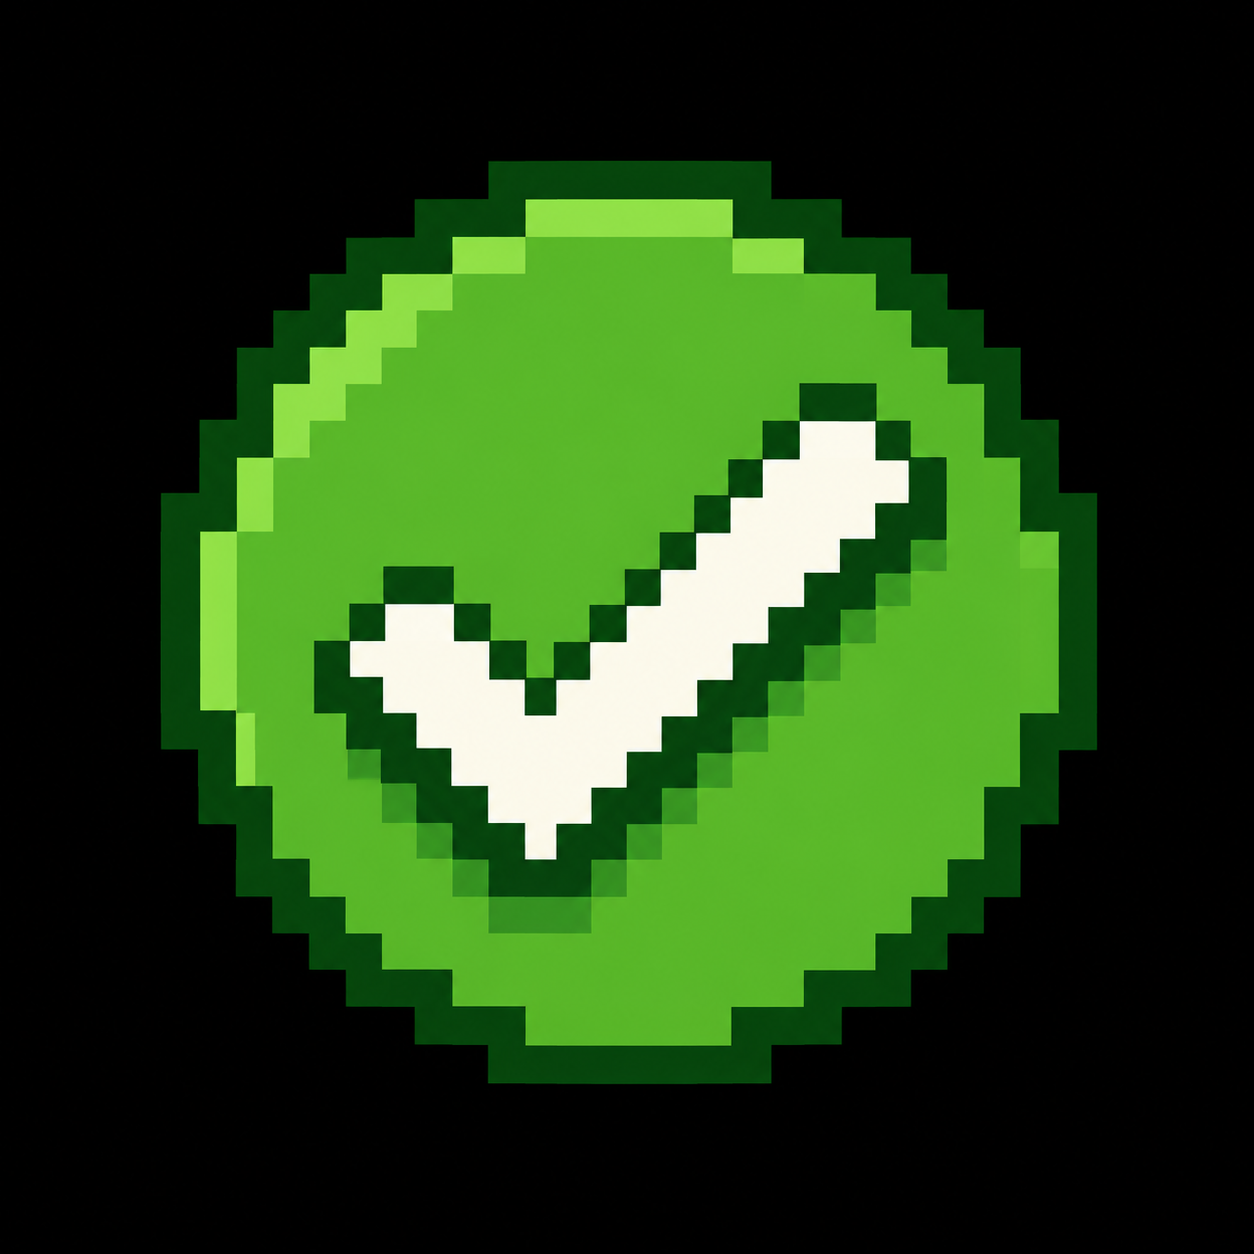
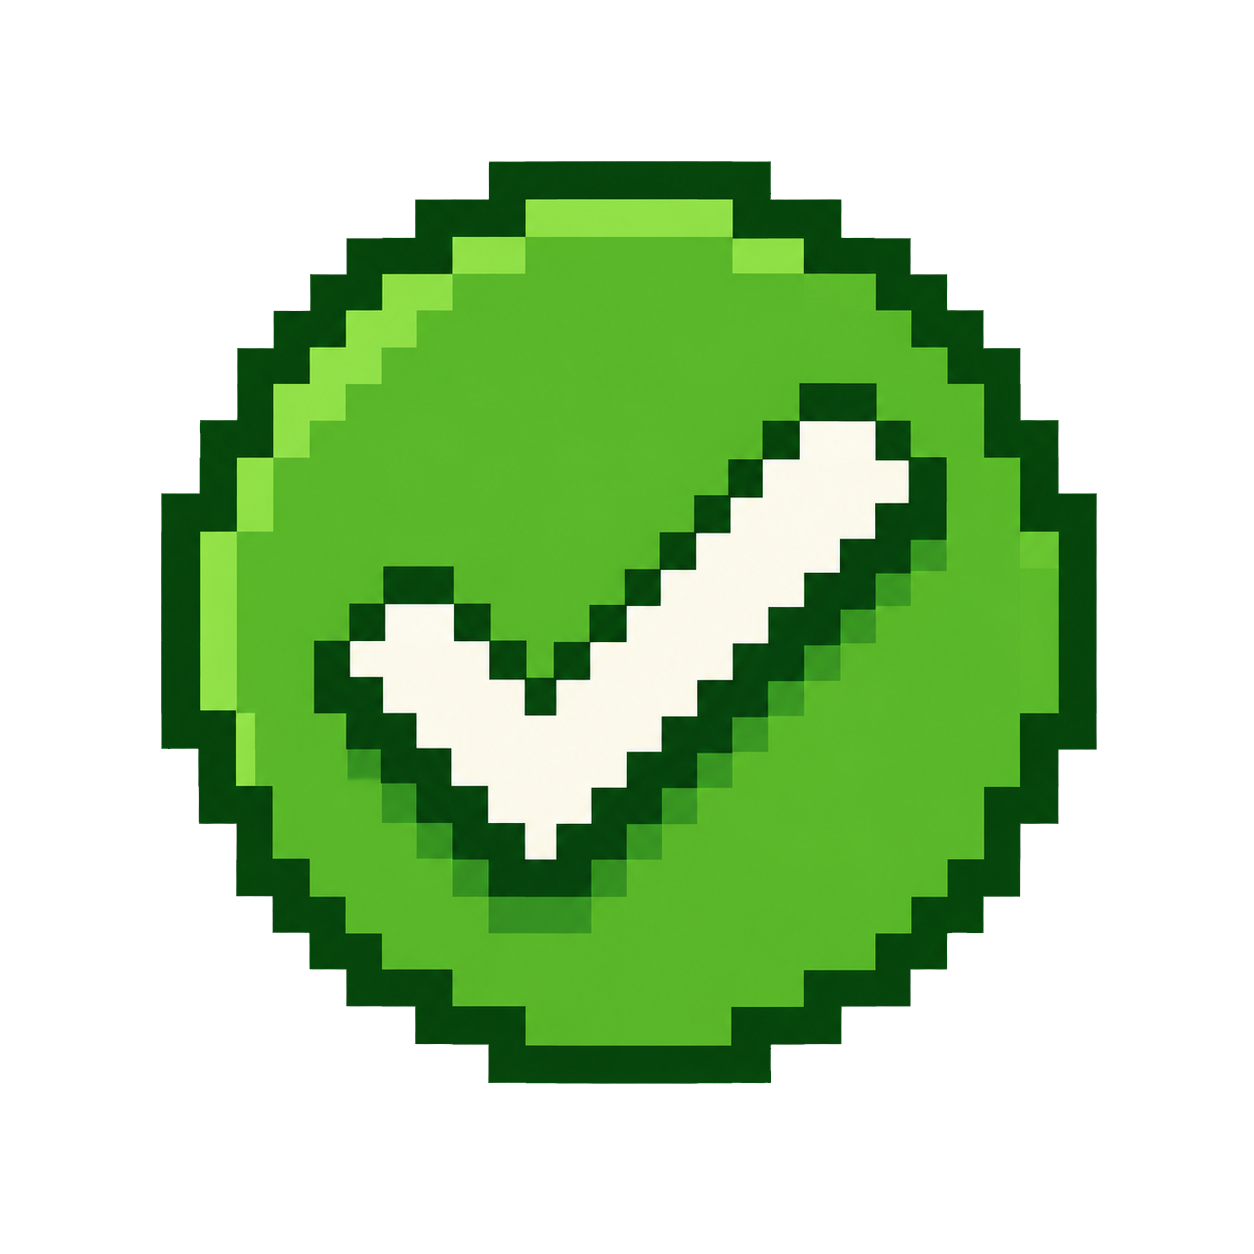
Ya subí las imagenes a los recursos

diff --git a/Ajedrez/Properties/Resources.Designer.cs b/Ajedrez/Properties/Resources.Designer.cs
@@ -83,6 +83,26 @@ namespace Ajedrez.Properties {
         /// <summary>
         ///   Busca un recurso adaptado de tipo System.Drawing.Bitmap.
         /// </summary>
+        internal static System.Drawing.Bitmap aprobado {
+            get {
+                object obj = ResourceManager.GetObject("aprobado", resourceCulture);
+                return ((System.Drawing.Bitmap)(obj));
+            }
+        }
+        
+        /// <summary>
+        ///   Busca un recurso adaptado de tipo System.Drawing.Bitmap.
+        /// </summary>
+        internal static System.Drawing.Bitmap batalla {
+            get {
+                object obj = ResourceManager.GetObject("batalla", resourceCulture);
+                return ((System.Drawing.Bitmap)(obj));
+            }
+        }
+        
+        /// <summary>
+        ///   Busca un recurso adaptado de tipo System.Drawing.Bitmap.
+        /// </summary>
         internal static System.Drawing.Bitmap caballo {
             get {
                 object obj = ResourceManager.GetObject("caballo", resourceCulture);
@@ -103,9 +123,109 @@ namespace Ajedrez.Properties {
         /// <summary>
         ///   Busca un recurso adaptado de tipo System.Drawing.Bitmap.
         /// </summary>
+        internal static System.Drawing.Bitmap candado_blanco {
+            get {
+                object obj = ResourceManager.GetObject("candado_blanco", resourceCulture);
+                return ((System.Drawing.Bitmap)(obj));
+            }
+        }
+        
+        /// <summary>
+        ///   Busca un recurso adaptado de tipo System.Drawing.Bitmap.
+        /// </summary>
+        internal static System.Drawing.Bitmap candado_negro {
+            get {
+                object obj = ResourceManager.GetObject("candado_negro", resourceCulture);
+                return ((System.Drawing.Bitmap)(obj));
+            }
+        }
+        
+        /// <summary>
+        ///   Busca un recurso adaptado de tipo System.Drawing.Bitmap.
+        /// </summary>
+        internal static System.Drawing.Bitmap elo {
+            get {
+                object obj = ResourceManager.GetObject("elo", resourceCulture);
+                return ((System.Drawing.Bitmap)(obj));
+            }
+        }
+        
+        /// <summary>
+        ///   Busca un recurso adaptado de tipo System.Drawing.Bitmap.
+        /// </summary>
+        internal static System.Drawing.Bitmap empate {
+            get {
+                object obj = ResourceManager.GetObject("empate", resourceCulture);
+                return ((System.Drawing.Bitmap)(obj));
+            }
+        }
+        
+        /// <summary>
+        ///   Busca un recurso adaptado de tipo System.Drawing.Bitmap.
+        /// </summary>
+        internal static System.Drawing.Bitmap fecha {
+            get {
+                object obj = ResourceManager.GetObject("fecha", resourceCulture);
+                return ((System.Drawing.Bitmap)(obj));
+            }
+        }
+        
+        /// <summary>
+        ///   Busca un recurso adaptado de tipo System.Drawing.Bitmap.
+        /// </summary>
+        internal static System.Drawing.Bitmap luna_blanca {
+            get {
+                object obj = ResourceManager.GetObject("luna_blanca", resourceCulture);
+                return ((System.Drawing.Bitmap)(obj));
+            }
+        }
+        
+        /// <summary>
+        ///   Busca un recurso adaptado de tipo System.Drawing.Bitmap.
+        /// </summary>
+        internal static System.Drawing.Bitmap luna_negra {
+            get {
+                object obj = ResourceManager.GetObject("luna_negra", resourceCulture);
+                return ((System.Drawing.Bitmap)(obj));
+            }
+        }
+        
+        /// <summary>
+        ///   Busca un recurso adaptado de tipo System.Drawing.Bitmap.
+        /// </summary>
+        internal static System.Drawing.Bitmap menu {
+            get {
+                object obj = ResourceManager.GetObject("menu", resourceCulture);
+                return ((System.Drawing.Bitmap)(obj));
+            }
+        }
+        
+        /// <summary>
+        ///   Busca un recurso adaptado de tipo System.Drawing.Bitmap.
+        /// </summary>
+        internal static System.Drawing.Bitmap menu_negro {
+            get {
+                object obj = ResourceManager.GetObject("menu_negro", resourceCulture);
+                return ((System.Drawing.Bitmap)(obj));
+            }
+        }
+        
+        /// <summary>
+        ///   Busca un recurso adaptado de tipo System.Drawing.Bitmap.
+        /// </summary>
         internal static System.Drawing.Bitmap Movimiento {
             get {
                 object obj = ResourceManager.GetObject("Movimiento", resourceCulture);
+                return ((System.Drawing.Bitmap)(obj));
+            }
+        }
+        
+        /// <summary>
+        ///   Busca un recurso adaptado de tipo System.Drawing.Bitmap.
+        /// </summary>
+        internal static System.Drawing.Bitmap no_aprobado {
+            get {
+                object obj = ResourceManager.GetObject("no_aprobado", resourceCulture);
                 return ((System.Drawing.Bitmap)(obj));
             }
         }
@@ -126,6 +246,46 @@ namespace Ajedrez.Properties {
         internal static System.Drawing.Bitmap peon_negro_pixel {
             get {
                 object obj = ResourceManager.GetObject("peon_negro_pixel", resourceCulture);
+                return ((System.Drawing.Bitmap)(obj));
+            }
+        }
+        
+        /// <summary>
+        ///   Busca un recurso adaptado de tipo System.Drawing.Bitmap.
+        /// </summary>
+        internal static System.Drawing.Bitmap persona_blanca {
+            get {
+                object obj = ResourceManager.GetObject("persona_blanca", resourceCulture);
+                return ((System.Drawing.Bitmap)(obj));
+            }
+        }
+        
+        /// <summary>
+        ///   Busca un recurso adaptado de tipo System.Drawing.Bitmap.
+        /// </summary>
+        internal static System.Drawing.Bitmap persona_negra {
+            get {
+                object obj = ResourceManager.GetObject("persona_negra", resourceCulture);
+                return ((System.Drawing.Bitmap)(obj));
+            }
+        }
+        
+        /// <summary>
+        ///   Busca un recurso adaptado de tipo System.Drawing.Bitmap.
+        /// </summary>
+        internal static System.Drawing.Bitmap regresar {
+            get {
+                object obj = ResourceManager.GetObject("regresar", resourceCulture);
+                return ((System.Drawing.Bitmap)(obj));
+            }
+        }
+        
+        /// <summary>
+        ///   Busca un recurso adaptado de tipo System.Drawing.Bitmap.
+        /// </summary>
+        internal static System.Drawing.Bitmap regresar_negro {
+            get {
+                object obj = ResourceManager.GetObject("regresar_negro", resourceCulture);
                 return ((System.Drawing.Bitmap)(obj));
             }
         }
@@ -173,6 +333,26 @@ namespace Ajedrez.Properties {
         /// <summary>
         ///   Busca un recurso adaptado de tipo System.Drawing.Bitmap.
         /// </summary>
+        internal static System.Drawing.Bitmap sol_blanco {
+            get {
+                object obj = ResourceManager.GetObject("sol_blanco", resourceCulture);
+                return ((System.Drawing.Bitmap)(obj));
+            }
+        }
+        
+        /// <summary>
+        ///   Busca un recurso adaptado de tipo System.Drawing.Bitmap.
+        /// </summary>
+        internal static System.Drawing.Bitmap sol_negro {
+            get {
+                object obj = ResourceManager.GetObject("sol_negro", resourceCulture);
+                return ((System.Drawing.Bitmap)(obj));
+            }
+        }
+        
+        /// <summary>
+        ///   Busca un recurso adaptado de tipo System.Drawing.Bitmap.
+        /// </summary>
         internal static System.Drawing.Bitmap torre {
             get {
                 object obj = ResourceManager.GetObject("torre", resourceCulture);
@@ -186,6 +366,36 @@ namespace Ajedrez.Properties {
         internal static System.Drawing.Bitmap Torre_n {
             get {
                 object obj = ResourceManager.GetObject("Torre_n", resourceCulture);
+                return ((System.Drawing.Bitmap)(obj));
+            }
+        }
+        
+        /// <summary>
+        ///   Busca un recurso adaptado de tipo System.Drawing.Bitmap.
+        /// </summary>
+        internal static System.Drawing.Bitmap trofeo {
+            get {
+                object obj = ResourceManager.GetObject("trofeo", resourceCulture);
+                return ((System.Drawing.Bitmap)(obj));
+            }
+        }
+        
+        /// <summary>
+        ///   Busca un recurso adaptado de tipo System.Drawing.Bitmap.
+        /// </summary>
+        internal static System.Drawing.Bitmap ver_contra {
+            get {
+                object obj = ResourceManager.GetObject("ver_contra", resourceCulture);
+                return ((System.Drawing.Bitmap)(obj));
+            }
+        }
+        
+        /// <summary>
+        ///   Busca un recurso adaptado de tipo System.Drawing.Bitmap.
+        /// </summary>
+        internal static System.Drawing.Bitmap ver_contra_negro {
+            get {
+                object obj = ResourceManager.GetObject("ver_contra_negro", resourceCulture);
                 return ((System.Drawing.Bitmap)(obj));
             }
         }